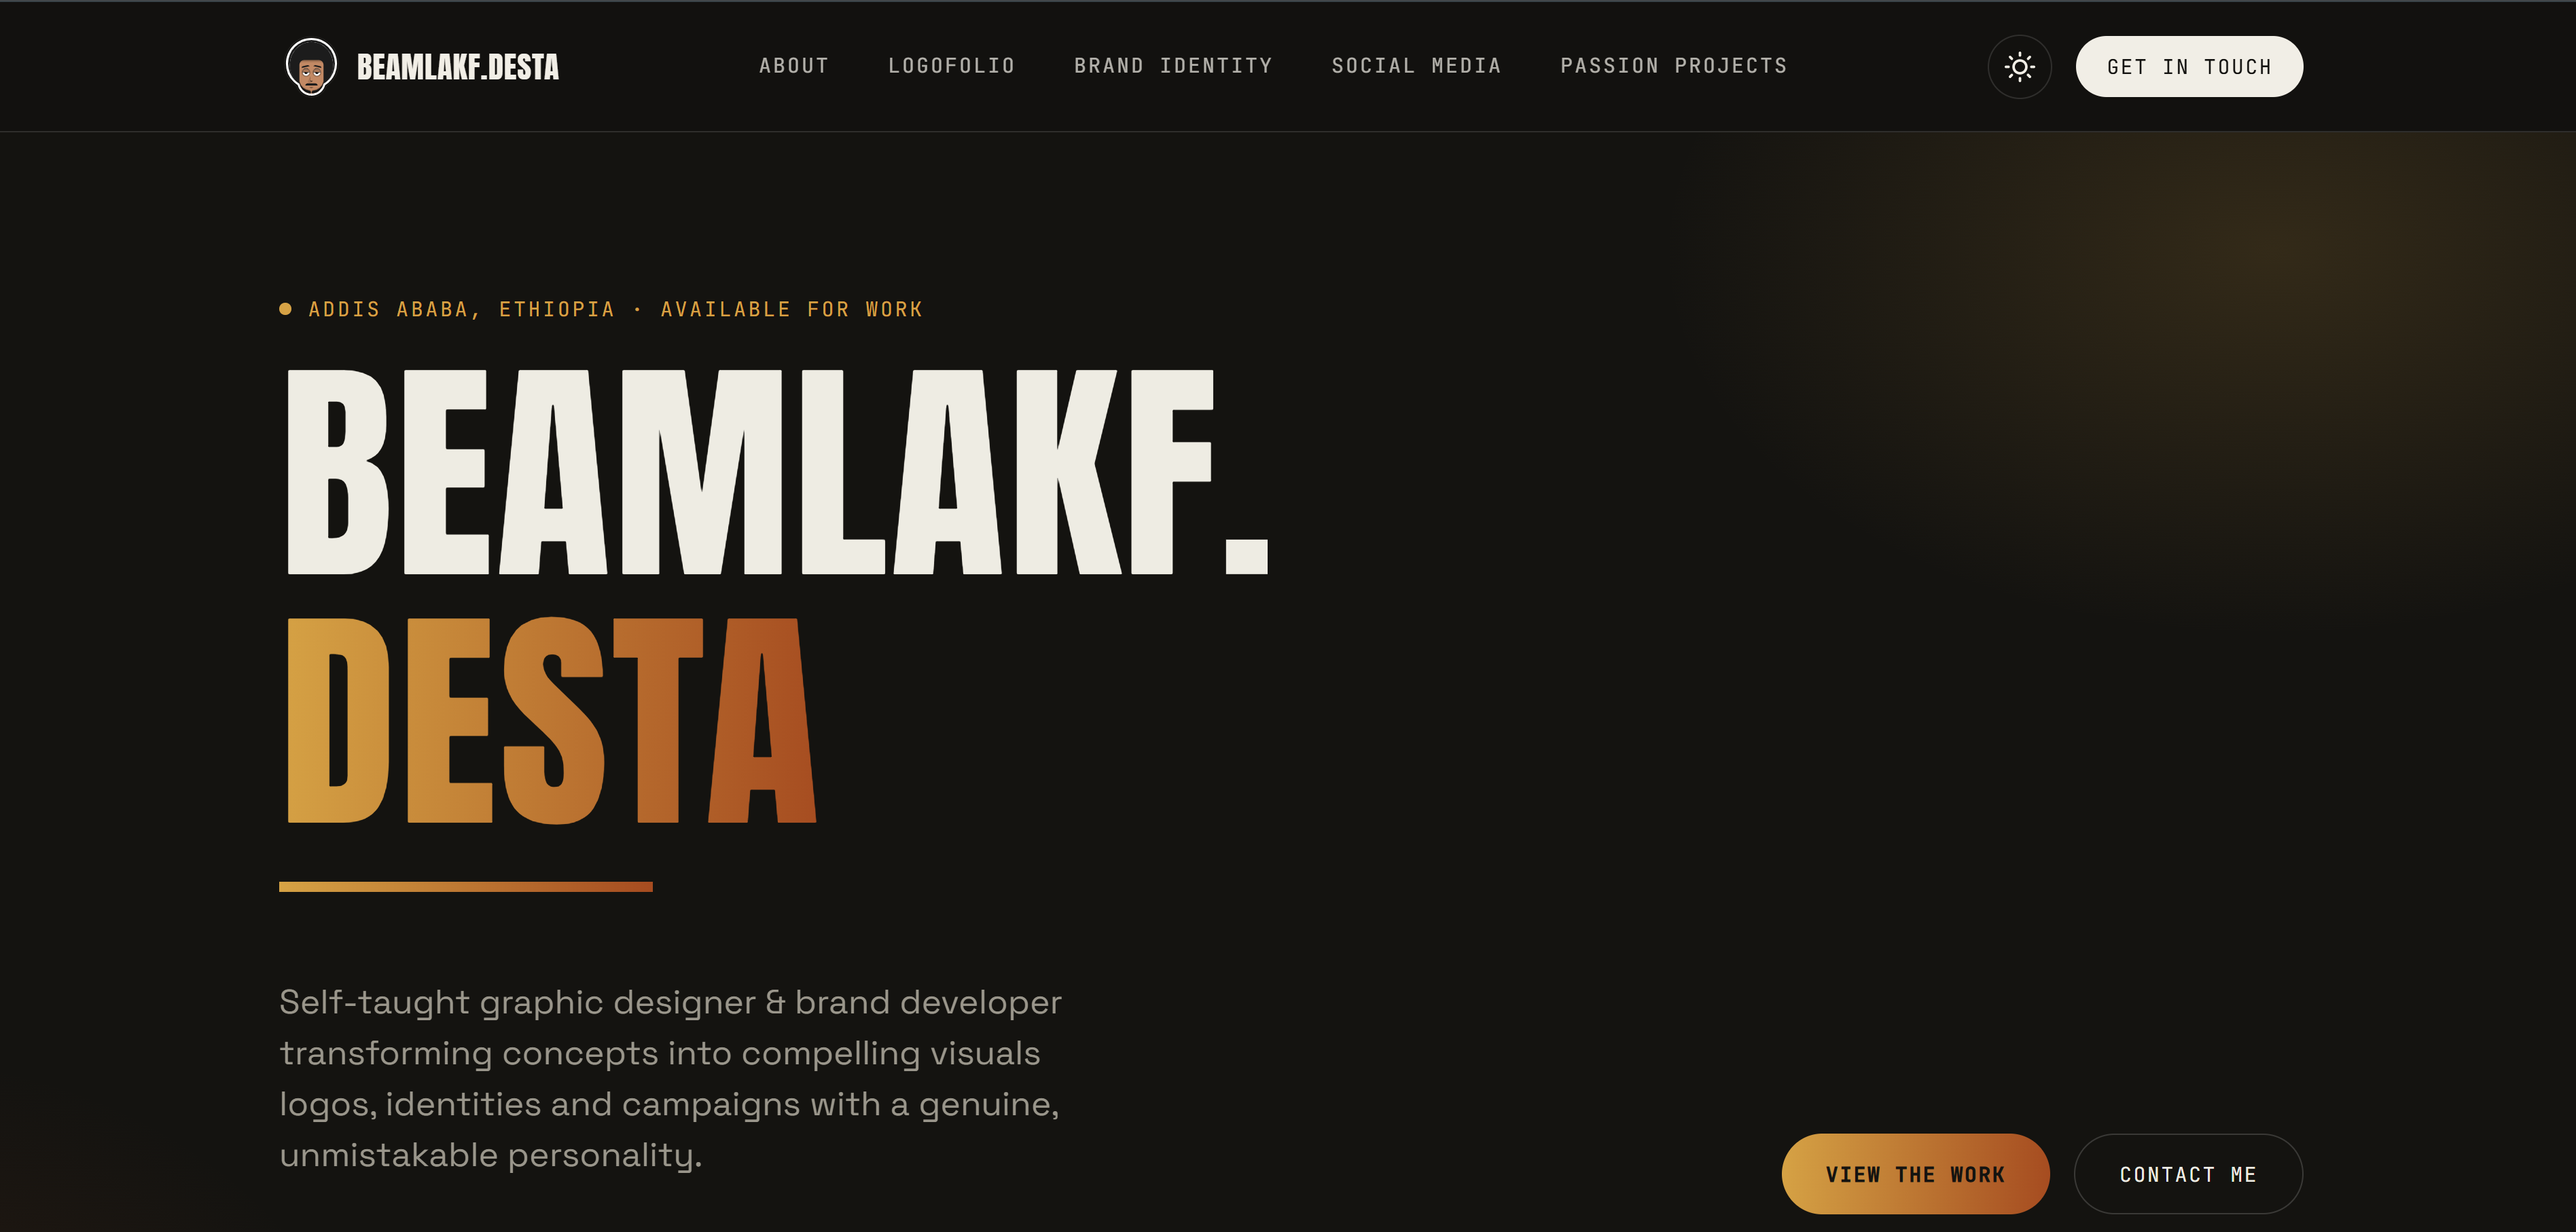
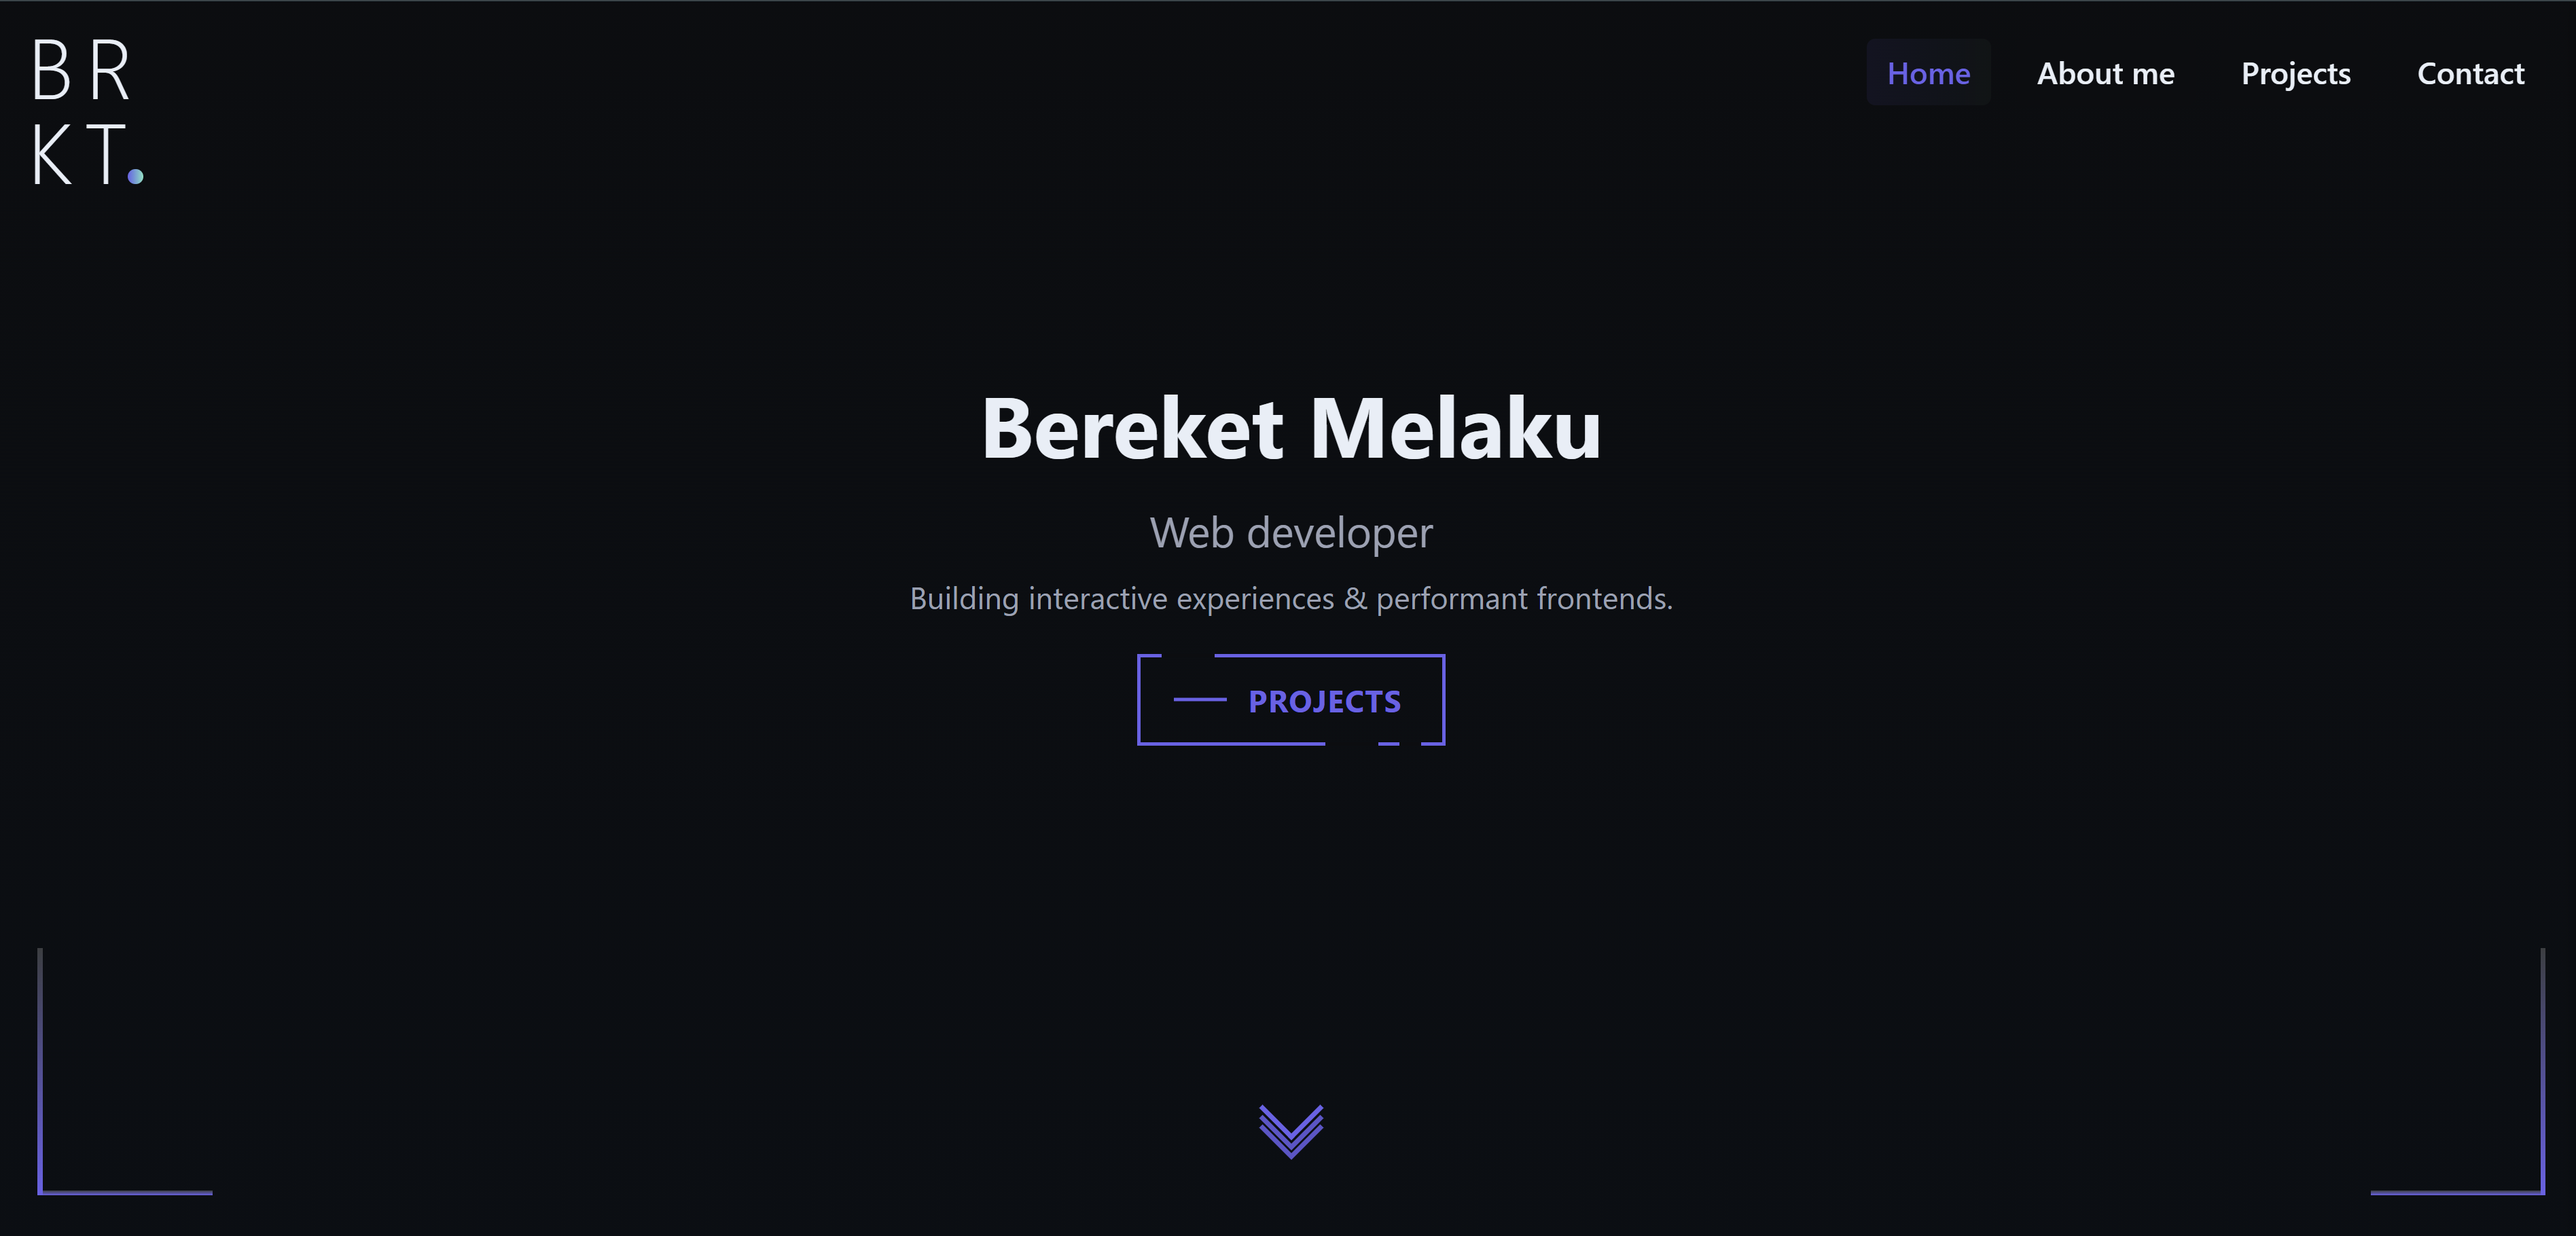
Small code clean up

diff --git a/src/components/Projects.jsx b/src/components/Projects.jsx
@@ -6,50 +6,48 @@ import './Projects.css';
 import project1 from '../assets/projects/project1.jpg';
 import project2 from '../assets/projects/project2.jpg';
 import project3 from '../assets/projects/project3.jpg';
-import project4 from '../assets/projects/project4.jpg';
-import project5 from '../assets/projects/project5.jpg';
 
 const PROJECTS = [
   {
     id: 1,
     url: project1,
-    tag: 'Full-Stack · React · Node.js',
-    title: 'Portfolio Website',
+    tag: 'Full-Stack · React · Node.js · PostgreSQL · Socket.io · OAuth',
+    title: 'Local Services Marketplace',
     description:
-      'A personal portfolio built with React and Framer Motion, featuring animated sections, a sticky scroll text reveal, and a horizontal project carousel.',
-    href: '#',
-    github: 'https://github.com/',
+      'A full-stack marketplace that connects users with local service providers. Users can discover and search for services, manage listings and profiles, submit service requests, track request status, and communicate through real-time messaging.',
+    href: 'https://github.com/becka-1/local-services-marketplace-v2',
+    github: 'https://github.com/becka-1/local-services-marketplace-v2',
   },
   {
     id: 2,
     url: project2,
-    tag: 'Backend · Express · PostgreSQL',
-    title: 'REST API Platform',
+    tag: 'Front-End · React · framer-motion · CSS',
+    title: 'My New Portfolio Website',
     description:
       'A scalable REST API service with JWT authentication, role-based access control, and a PostgreSQL database, fully documented with Swagger.',
-    href: '#',
-    github: 'https://github.com/',
+    href: 'https://becka-1.github.io/Portfolio-Website/',
+    github: 'https://github.com/becka-1/Portfolio-Website',
   },
   {
     id: 3,
     url: project3,
-    tag: 'AI · Python · TensorFlow',
-    title: 'Image Classifier',
+    tag: 'Front-End · HTML · Vanilla CSS · Vanilla JavaScript',
+    title: 'My Last Portfolio Website',
     description:
       'A deep-learning image classifier trained on a custom dataset achieving 94 % accuracy, deployed as a Flask micro-service with a React front-end.',
-    href: '#',
-    github: 'https://github.com/',
+    href: 'https://becka-1.github.io/Portfolio-Website/',
+    github: 'https://github.com/becka-1/Portfolio-Website',
   },
-  {
-    id: 4,
-    url: project4,
-    tag: 'Full-Stack · Next.js · Prisma',
-    title: 'Task Manager App',
-    description:
-      'A real-time collaborative task manager with drag-and-drop boards, live notifications via WebSockets, and a Prisma/PostgreSQL backend.',
-    href: '#',
-    github: 'https://github.com/',
-  }
+  // {
+  //   id: 4,
+  //   url: project4,
+  //   tag: 'Full-Stack · Next.js · Prisma',
+  //   title: 'Task Manager App',
+  //   description:
+  //     'A real-time collaborative task manager with drag-and-drop boards, live notifications via WebSockets, and a Prisma/PostgreSQL backend.',
+  //   href: '#',
+  //   github: 'https://github.com/',
+  // }
 ];
 
 /* ── Horizontal scroll carousel ── */
@@ -65,12 +63,12 @@ const HorizontalCarousel = () => {
       if (railRef.current && viewportRef.current) {
         const railWidth = railRef.current.scrollWidth;
         const viewportWidth = viewportRef.current.clientWidth;
-        
+
         // Calculate padding to ensure cards don't touch the edges
         // Account for the CSS mask fade on both left and right sides of the viewport
         let maskLeft = 0;
         let maskRight = 0;
-        
+
         if (window.innerWidth > 1100) {
           // 8% mask fade + clearance
           maskLeft = viewportWidth * 0.08;
@@ -84,11 +82,15 @@ const HorizontalCarousel = () => {
           maskLeft = 16;
           maskRight = window.innerWidth <= 600 ? 16 : 32;
         }
-        
-        const maxScroll = Math.max(0, railWidth - viewportWidth + maskRight);
-        
-        // Start from maskLeft so the first card clears the left fade
-        setTransformRange([`${maskLeft}px`, `-${maxScroll}px`]);
+
+        // Start further right, but don't travel as far left
+        const startTravel = window.innerWidth > 850 ? 250 : 100;
+        const endTravel = window.innerWidth > 850 ? 50 : 20; // Reduced this so it doesn't go too far left
+
+        const maxScroll = Math.max(0, railWidth - viewportWidth + maskRight) + endTravel;
+
+        // Start from maskLeft + startTravel so the cards come in from further right
+        setTransformRange([`${maskLeft + startTravel}px`, `-${maxScroll}px`]);
       } else {
         // Fallback before refs are attached
         setTransformRange(['0px', '-1000px']);
@@ -98,14 +100,14 @@ const HorizontalCarousel = () => {
     // Use a small timeout to ensure DOM is fully rendered before calculation
     const timeoutId = setTimeout(updateRange, 100);
     window.addEventListener('resize', updateRange);
-    
+
     return () => {
       clearTimeout(timeoutId);
       window.removeEventListener('resize', updateRange);
     };
   }, []);
 
-  const { scrollYProgress } = useScroll({ 
+  const { scrollYProgress } = useScroll({
     target: targetRef,
     offset: ["start start", "end end"]
   });

diff --git a/src/components/Landing.jsx b/src/components/Landing.jsx
@@ -1,7 +1,7 @@
 import { useRef, useCallback } from 'react';
 import { motion } from 'framer-motion';
 import MagneticButton from './MagneticButton';
-import Profile from '../assets/Profile Photo/profile.png';
+import Profile from '../assets/profile photo/profile.png';
 import WaveIcon from '../assets/icons/wave-test.svg';
 import './Landing.css';
 
@@ -45,7 +45,6 @@ const Landing = () => {
   const waveRef = useRef(null);
   const isWaving = useRef(false);
 
-  /* keyframes matching the CSS @keyframes wave-hand */
   const WAVE_KEYFRAMES = [
     { transform: 'rotate(0deg)' },
     { transform: 'rotate(20deg)', offset: 0.15 },
@@ -67,7 +66,7 @@ const Landing = () => {
     });
 
     anim.onfinish = () => {
-      anim.cancel(); // reset transform so next hover starts clean
+      anim.cancel();
       isWaving.current = false;
     };
   }, []);
@@ -95,7 +94,7 @@ const Landing = () => {
             <img
               ref={waveRef}
               src={WaveIcon}
-              alt=""
+              alt="Waving Hand"
               className="wave-icon"
               onMouseEnter={handleWaveHover}
             />
@@ -109,7 +108,6 @@ const Landing = () => {
             animate="visible"
           >
             {LETTERS.map((letter, i) => (
-              /* Clip wrapper — hides the letter below the baseline until it slides up */
               <span key={i} className="letter-clip">
                 <motion.span variants={letterVariants}>
                   {letter === ' ' ? '\u00A0' : letter}
@@ -125,7 +123,7 @@ const Landing = () => {
             animate="visible"
             custom={4}
           >
-            I build full-stack applications with a focus on performance and scalability.
+            I build end-to-end full-stack web applications with a focus on performance and scalability.
           </motion.p>
 
           <motion.div
@@ -154,7 +152,6 @@ const Landing = () => {
           </motion.div>
         </div>
 
-        {/* Right: image placeholder — replace with your image */}
         <motion.div
           className="hero-image"
           variants={fadeUp}
@@ -162,8 +159,7 @@ const Landing = () => {
           animate="visible"
           custom={3.7}
         >
-          {/* Add your <img> here */}
-          <img src={Profile} alt="" />
+          <img src={Profile} alt="bereket-profile" />
         </motion.div>
       </div>
     </div>

diff --git a/src/components/About.jsx b/src/components/About.jsx
@@ -1,10 +1,10 @@
 import { useScroll, useTransform, motion } from 'framer-motion';
 import { useRef, useState, useEffect } from 'react';
-import Profile from '../assets/Profile Photo/profile.jpg';
+import Profile from '../assets/profile photo/profile.jpg';
 import './About.css';
 
 /* ── Text reveal paragraphs ── */
-const BIO = "Dedicated Computer Science and Engineering student with 2+ years of experience in web development and strong interest in software development, full-stack web applications and artificial intelligence. I build end-to-end web applications, from designing responsive and user-friendly interfaces to developing backend APIs and managing databases.";
+const BIO = "Hi, I'm Bereket Melaku, a dedicated Computer Science and Engineering student and Full-Stack Developer with 2+ years of experience in web development and strong interest in software development, full-stack web applications and artificial intelligence. I build end-to-end web applications, from designing responsive and user-friendly interfaces to developing backend APIs and managing databases.";
 const SKILLS = "Python · JavaScript · C++ · SQL · React · Node.js · Express.js · REST APIs · PostgreSQL · HTML · CSS · Tailwind · Git";
 
 /* ── Character-level opacity reveal driven by natural scroll progress ── */

diff --git a/src/components/Contact.css b/src/components/Contact.css
@@ -101,7 +101,7 @@
 
 .contact-detail-label {
   color: var(--c-label);
-  font-size: 10px;
+  font-size: 13px;
   font-weight: 600;
   letter-spacing: 0.12em;
   text-transform: uppercase;
@@ -288,45 +288,7 @@
   gap: 10px;
 }
 
-/* ── Footer bar ── */
-.contact-footer {
-  border-top: 1px solid var(--c-line);
-  color: var(--c-label);
-  display: flex;
-  font-size: 10px;
-  font-weight: 600;
-  justify-content: space-between;
-  letter-spacing: 0.1em;
-  padding-top: 18px;
-  text-transform: uppercase;
-}
 
-.contact-status {
-  align-items: center;
-  display: inline-flex;
-  gap: 8px;
-}
-
-.contact-status i {
-  background: var(--color-accent);
-  border-radius: 50%;
-  display: inline-block;
-  height: 6px;
-  width: 6px;
-  animation: pulse-dot 2s ease-in-out infinite;
-}
-
-@keyframes pulse-dot {
-
-  0%,
-  100% {
-    opacity: 1;
-  }
-
-  50% {
-    opacity: 0.35;
-  }
-}
 
 /* ── Responsive ── */
 @media (max-width: 800px) {
@@ -357,11 +319,7 @@
     gap: 0;
   }
 
-  .contact-footer {
-    align-items: flex-start;
-    flex-direction: column;
-    gap: 10px;
-  }
+
 }
 
 @media (max-width: 480px) {

diff --git a/src/components/Contact.jsx b/src/components/Contact.jsx
@@ -39,7 +39,6 @@ export default function Contact() {
 
     const formData = new FormData(e.target);
 
-    // ⚠ Replace this with your actual Web3Forms access key
     formData.append("access_key", import.meta.env.VITE_WEB3FORMS_ACCESS_KEY);
 
     const object = Object.fromEntries(formData);
@@ -74,8 +73,6 @@ export default function Contact() {
   return (
     <section className="contact-section" id="contact" aria-labelledby="contact-title">
       <div className="contact-shell">
-
-        {/* ── Centered heading ── */}
         <header className="contact-heading">
           <motion.p className="contact-eyebrow" {...fadeUp(0)}>
             Have a project in mind?
@@ -197,14 +194,7 @@ export default function Contact() {
 
         </div>
 
-        {/* ── Footer bar ── */}
-        <footer className="contact-footer">
-          <span>Available for select freelance projects</span>
-          <span className="contact-status">
-            {/* <i aria-hidden="true" /> */}
-            Currently accepting inquiries
-          </span>
-        </footer>
+
 
       </div>
     </section>

diff --git a/src/components/Footer.css b/src/components/Footer.css
@@ -1,3 +1,47 @@
+/* ── Availability Banner ── */
+.footer-availability {
+  border-bottom: 1px solid var(--border-medium);
+  color: var(--color-text-muted);
+  display: flex;
+  font-size: 10px;
+  font-weight: 600;
+  justify-content: space-between;
+  letter-spacing: 0.1em;
+  padding: 18px 24px;
+  text-transform: uppercase;
+  width: 100%;
+  max-width: 1160px;
+  box-sizing: border-box;
+}
+
+.footer-status {
+  align-items: center;
+  display: inline-flex;
+  gap: 8px;
+}
+
+.footer-status i {
+  background: var(--color-accent);
+  border-radius: 50%;
+  display: inline-block;
+  height: 6px;
+  width: 6px;
+  animation: pulse-dot 2s ease-in-out infinite;
+}
+
+@keyframes pulse-dot {
+  0%, 100% { opacity: 1; }
+  50% { opacity: 0.35; }
+}
+
+@media (max-width: 800px) {
+  .footer-availability {
+    align-items: flex-start;
+    flex-direction: column;
+    gap: 10px;
+  }
+}
+
 .footer-container {
   background-color: var(--color-dominant);
   display: flex;

diff --git a/src/components/Footer.jsx b/src/components/Footer.jsx
@@ -4,6 +4,14 @@ import './Footer.css';
 const Footer = () => {
   return (
     <footer className="footer-container">
+      <div className="footer-availability">
+        <span>Available for select freelance projects</span>
+        <span className="footer-status">
+          {/* <i aria-hidden="true" /> */}
+          Currently accepting inquiries
+        </span>
+      </div>
+
       <div className="footer-content">
         <div className="footer-socials">
           <a href="https://github.com/becka-1" target="_blank" rel="noreferrer" aria-label="GitHub">

diff --git a/src/components/Landing.css b/src/components/Landing.css
@@ -143,16 +143,13 @@
   flex-shrink: 0;
   width: 380px;
   height: 460px;
-  border-radius: 12px;
-  overflow: hidden;
 }
 
 .hero-image img {
   width: 100%;
   height: 100%;
-  object-fit: cover;
+  object-fit: contain;
   display: block;
-  transform: scaleX(-1);
 }
 
 /* ── Waving hand icon ── */

diff --git a/src/components/ProjectCard.jsx b/src/components/ProjectCard.jsx
@@ -23,6 +23,7 @@ const ProjectCard = ({ card }) => {
 
         <div className="project-card__actions">
           <motion.a
+            target="_blank"
             href={card.href}
             className="project-card__cta"
             whileHover={{ x: 4 }}
